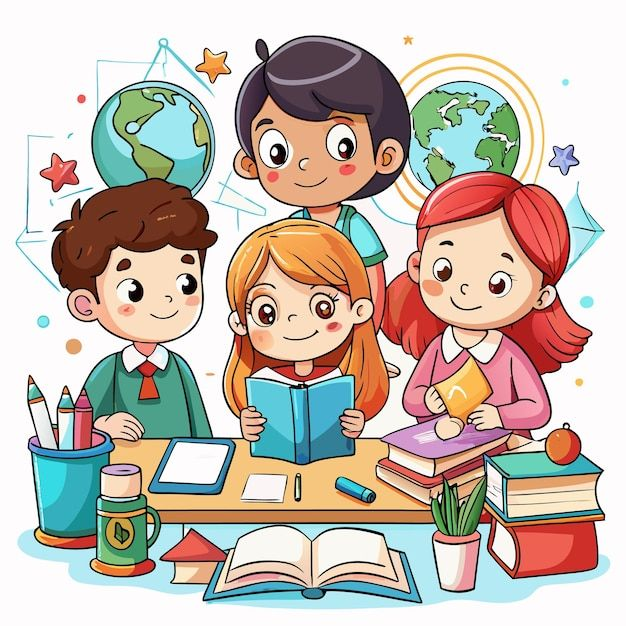
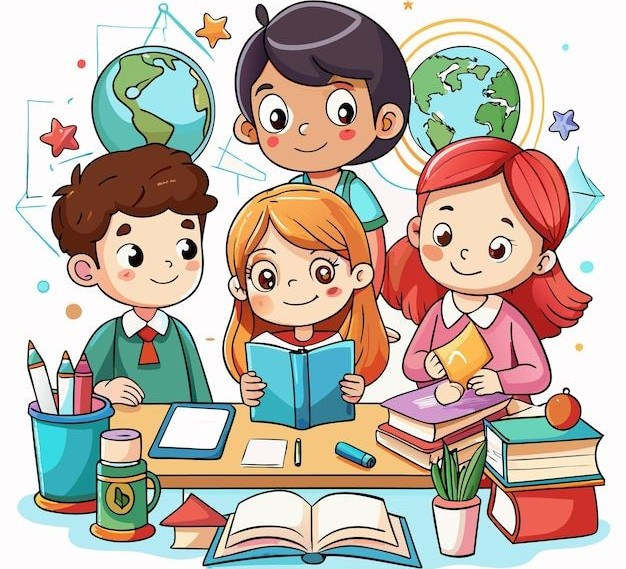
style global-card

diff --git a/components/ui/global-card.tsx b/components/ui/global-card.tsx
@@ -4,13 +4,12 @@ interface Props {
     img: string;
     href: string;
     title: string;
-    subtitle?: string;
     desc: string;
     isExternal?: boolean;
     isDownloadble?: boolean;
 }
 
-export const GlobalCard = ({img, href, title, desc, subtitle, isExternal = false, isDownloadble = false}:Props) => {
+export const GlobalCard = ({img, href, title, desc, isExternal = false, isDownloadble = false}:Props) => {
   return (
     <Link 
       href={href} 
@@ -19,18 +18,11 @@ export const GlobalCard = ({img, href, title, desc, subtitle, isExternal = false
       download={isDownloadble}
     >
       <div className="relative lg:h-full min-h-[50px] overflow-hidden w-full">
-        <img className="h-52 w-full object-contain lg:group-hover:scale-105 transition overflow-hidden" src={img}  alt={`imagen-${title}`} />
+        <img className="h-52 w-full object-cover lg:group-hover:scale-105 transition overflow-hidden" src={img}  alt={`imagen-${title}`} />
       </div>
 
       <div className="h-full">
         <div className="p-4 flex flex-col h-full">
-          {
-            subtitle && (
-              <p className="inline-flex items-center gap-1.5 py-1.5 px-3 rounded-md text-xs font-medium bg-gray-100 text-gray-800 dark:bg-neutral-800 dark:text-neutral-200">
-              {subtitle}
-            </p>
-            )
-          }
           <h3 className="text-lg sm:text-2xl font-semibold text-gray-800 group-hover:text-primary-light-blue group-focus:text-primary-light-blue dark:text-neutral-300 dark:group-hover:text-white dark:group-focus:text-white capitalize">
           {title}
           </h3>

diff --git a/components/estudiar-mejor.tsx b/components/estudiar-mejor.tsx
@@ -9,11 +9,11 @@ export const EstudiarMejor = () => {
                 <p className="text-lg text-primary-dark-gray">
                     Al momento de estudiar es necesario saber que cada uno de nosotros tiene diferentes modos de aprender, por lo tanto es importante que podamos conocernos a nosotros mismos y ver si las herramientas que utilizamos nos sirven o debemos buscar nuevas maneras para aprender.
                 </p>
-                <h5 className='mt-3'>Conozcamos cómo aprendemos y qué estrategias nos sirven en cada momento:</h5>
+                <h5 className='mt-3 text-lg text-primary-dark-gray'>Conozcamos cómo aprendemos y qué estrategias nos sirven en cada momento:</h5>
                 
-                <div className="grid sm:grid-cols-2">
-                    <img src="/assets/global/estudiar-mejor.png" alt="estudiar-mejor" />
-                    <img src="/assets/inicial/estudiando.jpg" alt="estudiar-mejor" />
+                <div className="grid sm:grid-cols-2 w-full">
+                    <img src="/assets/global/estudiar-mejor.png" alt="estudiar-mejor" className="object-contain" />
+                    <img src="/assets/inicial/estudiando.jpg" alt="estudiando-mejor" className="object-contain" />
                 </div>
             </div>
 

diff --git a/components/ui/footer.tsx b/components/ui/footer.tsx
@@ -8,9 +8,9 @@ export const Footer = () => {
   const year = new Date().getFullYear();
 
   return (
-    <footer className='relative w-full bg-primary-blue px-3 py-3 md:py-1'>
+    <footer className='relative w-full bg-primary-blue px-3 py-3'>
       <div className="container mx-auto relative grid md:grid-cols-4 items-center justify-items-center gap-1">
-        <div className='flex justify-center h-20 gap-3'>
+        <div className='flex justify-center h-20 gap-3 mt-5'>
           <img src='/assets/logos/50anios.svg' alt='logo' width={150} height={100} className='w-full h-full' />
           <a href="https://www.lamennais.org/es/" target='_blank' className='cursor-pointer w-full md:hover:opacity-70'>
             <img src='/assets/logos/laMennaisLogo.svg' alt='logo' width={150} height={100} className='w-full h-full' />

diff --git a/app/administracion/page.tsx b/app/administracion/page.tsx
@@ -44,7 +44,6 @@ const AdminPage = () => {
           <GlobalCard
            href="https://www.facebook.com/profile.php?id=100063448822390"
            title="Facebook"
-           subtitle='Administración'
            desc="Haz click para ir"
            img="/assets/logos/rrss.jpg"
            isExternal
@@ -53,7 +52,6 @@ const AdminPage = () => {
           <GlobalCard
            href="https://docs.google.com/forms/d/e/1FAIpQLSfADQikus7GGW-0ZTMTzQQG27uwxhItuFIO8TpgAC652fdPtw/viewform"
            title="Intranet"
-           subtitle='Administración'
            desc="Actualizar tu ficha de datos personales"
            img="/assets/logos/internet.webp"
            isExternal

diff --git a/components/homepage/contracts.tsx b/components/homepage/contracts.tsx
@@ -13,7 +13,6 @@ export const Contracts = () => {
         <GlobalCard
           href="/assets/contrato2025.pdf"
           title="Contrato educativo ciclo lectivo 2025"
-          subtitle="Contrato"
           desc="Descarga el archivo en formato PDF"
           img="/assets/homepage/contrato.jpg"
           isDownloadble={true}
@@ -23,7 +22,6 @@ export const Contracts = () => {
         <GlobalCard
           href="https://forms.gle/VCq2GBUsbrCp5AmF6"
           title="Solicitud de vacante 2026"
-          subtitle="Vacante"
           img="/assets/homepage/vacante.jpg"
           desc="Te esperamos para vivir juntos tu camino a la excelencia"
           isExternal

diff --git a/app/niveles/secundaria/page.tsx b/app/niveles/secundaria/page.tsx
@@ -38,7 +38,6 @@ const SecundariaPage = () => {
         <GlobalCard
           href="https://forms.gle/VCq2GBUsbrCp5AmF6"
           title="Solicitud de vacante 2026"
-          subtitle="Vacante"
           img="/assets/homepage/vacante.jpg"
           desc="Te esperamos para vivir juntos tu camino a la excelencia"
           isExternal

diff --git a/lib/utils.ts b/lib/utils.ts
@@ -71,6 +71,10 @@ export const levels:ILevel[] = [
                 id: 4,
                 img: '/assets/inicial/inicial4.webp'
             }, 
+            {
+                id: 5,
+                img: '/assets/inicial/inicial5.webp'
+            }, 
         ]
     },
     {
